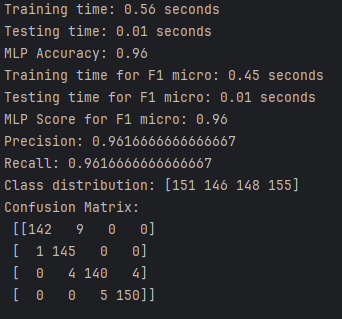
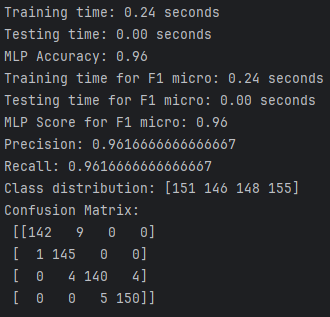
v4 updates

diff --git a/random_forest.py b/random_forest.py
@@ -17,7 +17,7 @@ X_train, X_test, y_train, y_test = train_test_split(X, y, test_size=0.3, random_
 
 # Create and train Random Forest model
 rf_model = RandomForestClassifier(bootstrap=True, max_depth=10, max_features=None,
-                                  min_samples_leaf=5, min_samples_split=5, oob_score=True,
+                                  min_samples_leaf=5, min_samples_split=5,
                                   n_estimators=100, class_weight='balanced', random_state=42)
 start_time = time.time()
 rf_model.fit(X_train, y_train)

diff --git a/mlp_variables_test.py b/mlp_variables_test.py
@@ -10,11 +10,11 @@ start_time = datetime.now()
 print("Start Time:", start_time)
 
 param_grid = {
-    'hidden_layer_sizes': [(50,), (100,), (50, 50), (100, 50), (100, 100)],
-    'activation': ['relu', 'tanh', 'logistic'],
-    'solver': ['adam', 'lbfgs', 'sgd'],
+    'hidden_layer_sizes': [(100, 100)],
+    'activation': ['tanh'],
+    'solver': ['lbfgs'],
     'alpha': [0.0001],
-    'learning_rate': ['constant', 'invscaling', 'adaptive'],
+    'learning_rate': ['constant'],
     'learning_rate_init': [0.0001]
 }
 

diff --git a/rf_variables_test.py b/rf_variables_test.py
@@ -15,7 +15,6 @@ param_grid = {
     'min_samples_split': [5],
     'min_samples_leaf': [5],             # Minimum number of samples in a leaf node
     'bootstrap': [True],                    # Whether bootstrap samples are used when building trees                 # Whether bootstrap samples are used when building trees
-    'oob_score': [True],
     'max_features': [None],
     'class_weight': ['balanced']
 }
